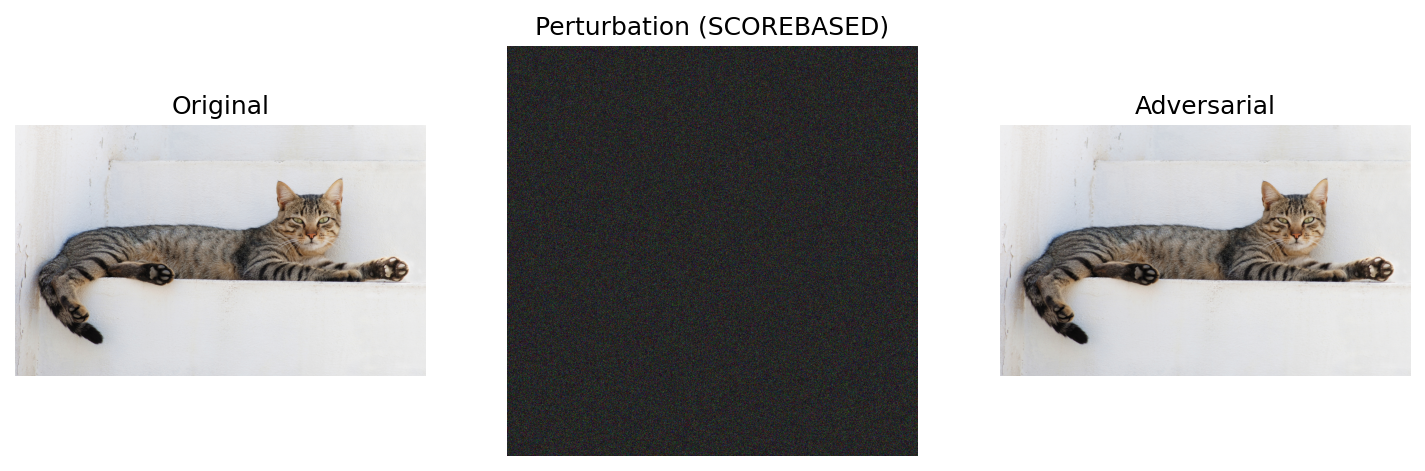
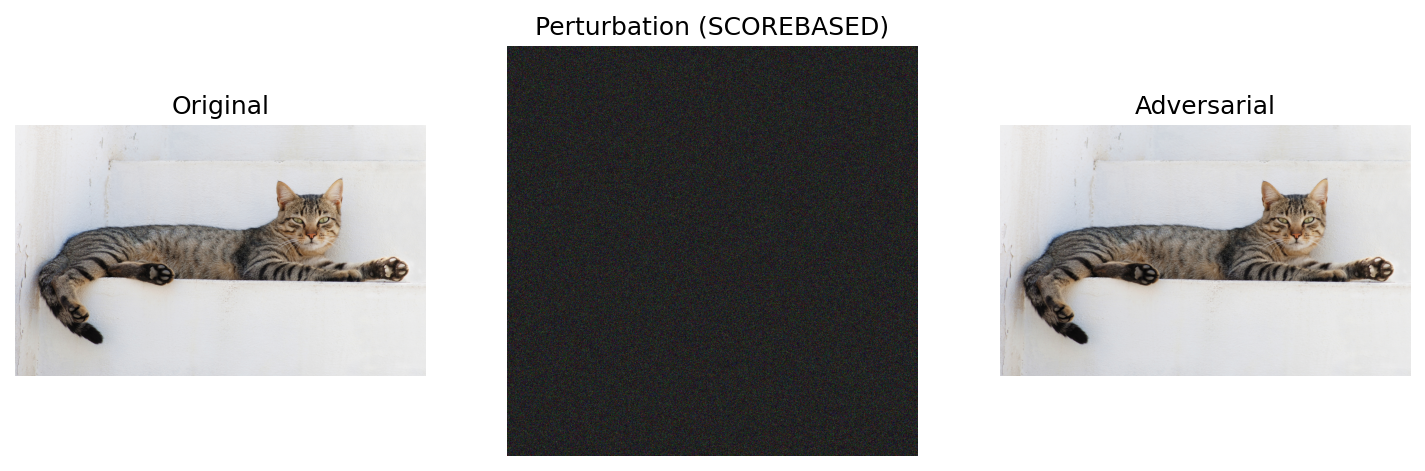
Trying to make the score based attack work better with a better loss function

Changed region(s): [[0.3705, 0.0892, 0.6484, 0.9512]]

diff --git a/Adversarial_attack_code/run_adversarial_attacks.py b/Adversarial_attack_code/run_adversarial_attacks.py
@@ -694,11 +694,18 @@ class AdversarialSticker(AdversarialAttacker):
 
 
 class ScoreBased(AdversarialAttacker):
-    """Score-Based Attack using Natural Evolution Strategies (NES) for gradient estimation
+    """Score-Based Attack using Central Difference (Antithetic Sampling) for gradient estimation
     
     This is a black-box attack that only requires access to model output scores (logits/probabilities),
-    not gradients. It estimates gradients by sampling random perturbations and using the model's
-    output scores to compute a weighted combination that approximates the true gradient direction.
+    not gradients. It estimates gradients using finite differences with antithetic samples:
+    
+    For each random direction u, we evaluate:
+    - L_plus = f(x + σu)
+    - L_minus = f(x - σu)  
+    - gradient ≈ (L_plus - L_minus) * u / (2σ)
+    
+    This central difference approach reduces variance and provides more accurate gradient estimates
+    compared to one-sided differences. Each iteration requires 2*num_samples model queries.
     """
     
     def __init__(self, model, processor, epsilon=0.1, iterations=50, num_samples=20, 
@@ -713,84 +720,99 @@ class ScoreBased(AdversarialAttacker):
         
     def estimate_gradient_nes(self, image_tensor, target_prompt):
         """
-        Estimate gradient using Natural Evolution Strategies (NES)
+        Estimate gradient using Central Difference (Antithetic Sampling)
         
-        NES samples random directions, evaluates the loss in those directions,
-        and computes a weighted average to approximate the gradient.
+        This method uses finite differences with antithetic samples for more accurate
+        gradient estimation. For each random direction u, we evaluate:
+        - L_plus = f(x + σu)  
+        - L_minus = f(x - σu)
+        - gradient ≈ (L_plus - L_minus) * u / (2σ)
+        
+        This antithetic approach reduces variance compared to one-sided differences.
+        
+        IMPORTANT: Uses MAX confidence (not mean) to match the actual decision boundary.
+        While noisier, this correctly targets what the detector actually uses.
         
         For UNTARGETED attacks: We want to DECREASE detection confidence.
-        So we define attack_success = -detection_confidence (higher = better attack)
+        So we define attack_success = -log(max_detection_confidence)
         
         Args:
             image_tensor: Current adversarial image tensor
             target_prompt: Text prompt for detection
             
         Returns:
-            gradient_estimate: Approximation of the gradient
+            gradient_estimate: Approximation of the gradient using central differences
         """
         # Sample random perturbation directions from Gaussian distribution
         # Shape: (num_samples, channels, height, width)
+        # Note: We'll use each sample for both +σu and -σu (antithetic pairs)
         perturbations = torch.randn(
             self.num_samples, *image_tensor.shape[1:], 
             device=self.device
         )
         
-        # Evaluate attack success for each perturbed sample
-        # Higher success = better attack = lower detection
-        attack_scores = []
+        gradient_estimate = torch.zeros_like(image_tensor)
         
+        # Evaluate attack success for each antithetic pair
         for i in range(self.num_samples):
-            # Apply perturbation
-            perturbed = image_tensor + self.sigma * perturbations[i:i+1]
-            perturbed = torch.clamp(perturbed, -1, 1)
+            u = perturbations[i:i+1]
             
-            # Compute attack success score (no gradients needed - score-based only)
+            # Evaluate at x + σu (forward perturbation)
+            perturbed_plus = image_tensor + self.sigma * u
+            perturbed_plus = torch.clamp(perturbed_plus, -1, 1)
+            
+            # Evaluate at x - σu (backward perturbation)
+            perturbed_minus = image_tensor - self.sigma * u
+            perturbed_minus = torch.clamp(perturbed_minus, -1, 1)
+            
+            # Compute attack success scores (no gradients needed - score-based only)
             with torch.no_grad():
                 if self.target_class:
                     # For targeted: minimize source, maximize target
-                    _, src_out, tgt_out = self.compute_targeted_loss(
-                        perturbed, target_prompt, self.target_class
+                    # Evaluate at x + σu
+                    _, src_out_plus, tgt_out_plus = self.compute_targeted_loss(
+                        perturbed_plus, target_prompt, self.target_class
                     )
-                    src_conf = src_out["pred_logits"].sigmoid().max().item()
-                    tgt_conf = tgt_out["pred_logits"].sigmoid().max().item()
-                    # Attack success using log-loss formulation (like cross-entropy)
-                    # Higher = better attack
-                    score = -torch.log(torch.tensor(src_conf + 1e-10)).item() + torch.log(torch.tensor(tgt_conf + 1e-10)).item()
+                    # Use MAX confidence to match the actual decision boundary
+                    src_conf_plus = src_out_plus["pred_logits"].sigmoid().max().item()
+                    tgt_conf_plus = tgt_out_plus["pred_logits"].sigmoid().max().item()
+                    score_plus = -torch.log(torch.tensor(src_conf_plus + 1e-10)).item() + \
+                                 torch.log(torch.tensor(tgt_conf_plus + 1e-10)).item()
+                    
+                    # Evaluate at x - σu
+                    _, src_out_minus, tgt_out_minus = self.compute_targeted_loss(
+                        perturbed_minus, target_prompt, self.target_class
+                    )
+                    src_conf_minus = src_out_minus["pred_logits"].sigmoid().max().item()
+                    tgt_conf_minus = tgt_out_minus["pred_logits"].sigmoid().max().item()
+                    score_minus = -torch.log(torch.tensor(src_conf_minus + 1e-10)).item() + \
+                                  torch.log(torch.tensor(tgt_conf_minus + 1e-10)).item()
                 else:
                     # For untargeted: minimize detection
-                    # Use negative log-probability (like cross-entropy loss)
-                    _, outputs = self.compute_loss(perturbed, target_prompt)
-                    detection_conf = outputs["pred_logits"].sigmoid().max().item()
-                    # Attack success = -log(detection_confidence)
-                    # When detection_conf is high (0.95), score is low (-0.05)
-                    # When detection_conf is low (0.1), score is high (-(-2.3) = 2.3)
-                    # Higher score = better attack
-                    score = -torch.log(torch.tensor(detection_conf + 1e-10)).item()
-                
-                attack_scores.append(score)
+                    # Use MAX confidence to match the actual decision boundary
+                    # This is noisier but matches what we're actually trying to fool
+                    _, outputs_plus = self.compute_loss(perturbed_plus, target_prompt)
+                    detection_conf_plus = outputs_plus["pred_logits"].sigmoid().max().item()
+                    score_plus = -torch.log(torch.tensor(detection_conf_plus + 1e-10)).item()
+                    
+                    # Evaluate at x - σu
+                    _, outputs_minus = self.compute_loss(perturbed_minus, target_prompt)
+                    detection_conf_minus = outputs_minus["pred_logits"].sigmoid().max().item()
+                    score_minus = -torch.log(torch.tensor(detection_conf_minus + 1e-10)).item()
+            
+            # Central difference: gradient ≈ (L_plus - L_minus) * u / (2σ)
+            # Higher score = better attack, so we want to move in direction of score increase
+            score_difference = score_plus - score_minus
+            gradient_estimate += score_difference * u
         
-        # Convert to tensor
-        scores_tensor = torch.tensor(attack_scores, device=self.device)
+        # Average over all samples and scale by 1/(2σ) for central difference
+        gradient_estimate = gradient_estimate / (self.num_samples * 2 * self.sigma)
         
-        # Debug: print score statistics
+        # Debug: print gradient statistics
         if torch.rand(1).item() < 0.1:  # Print 10% of the time to avoid spam
-            print(f"      [NES Debug] Score range: [{scores_tensor.min().item():.4f}, {scores_tensor.max().item():.4f}], "
-                  f"mean: {scores_tensor.mean().item():.4f}, std: {scores_tensor.std().item():.6f}")
-        
-        # Standard NES with baseline subtraction
-        # Directions with higher-than-average attack success get positive weight
-        scores_mean = scores_tensor.mean()
-        scores_centered = scores_tensor - scores_mean
-        
-        # Estimate gradient: directions with better attack scores (higher) contribute positively
-        # Formula: ĝ ≈ (1/Nσ) Σ (score_k - score_mean) * u_k
-        gradient_estimate = torch.zeros_like(image_tensor)
-        
-        for i in range(self.num_samples):
-            gradient_estimate += scores_centered[i] * perturbations[i:i+1]
-        
-        # Scale by (1 / (N * sigma)) as per NES formula
-        gradient_estimate = gradient_estimate / (self.num_samples * self.sigma)
+            grad_norm = torch.norm(gradient_estimate).item()
+            grad_max = torch.abs(gradient_estimate).max().item()
+            print(f"      [Central Diff Debug] GradNorm: {grad_norm:.6f}, GradMax: {grad_max:.6f}")
         
         return gradient_estimate
     
@@ -814,10 +836,10 @@ class ScoreBased(AdversarialAttacker):
         if self.target_class:
             print(f"  Running TARGETED Score-Based attack with {self.iterations} iterations...")
             print(f"  Source class: '{target_prompt}' -> Target class: '{self.target_class}'")
-            print(f"  Using {self.num_samples} samples per gradient estimation")
+            print(f"  Using {self.num_samples} antithetic samples per gradient estimation (central differences)")
         else:
             print(f"  Running Score-Based attack with {self.iterations} iterations...")
-            print(f"  Using {self.num_samples} samples per gradient estimation")
+            print(f"  Using {self.num_samples} antithetic samples per gradient estimation (central differences)")
         
         best_perturbation = None
         best_score = float('-inf')  # Track HIGHEST attack success score
@@ -826,9 +848,9 @@ class ScoreBased(AdversarialAttacker):
         total_queries = 0
         
         for i in range(self.iterations):
-            # Estimate gradient using NES (requires num_samples queries)
+            # Estimate gradient using central differences (requires 2*num_samples queries)
             gradient_estimate = self.estimate_gradient_nes(perturbed_tensor, target_prompt)
-            total_queries += self.num_samples
+            total_queries += 2 * self.num_samples  # Both +σu and -σu for each sample
             
             # Debug: check gradient magnitude
             grad_norm = torch.norm(gradient_estimate).item()
@@ -859,11 +881,13 @@ class ScoreBased(AdversarialAttacker):
                     _, src_out, tgt_out = self.compute_targeted_loss(
                         perturbed_tensor, target_prompt, self.target_class
                     )
+                    # Use max to match decision boundary
                     src_conf = src_out["pred_logits"].sigmoid().max().item()
                     tgt_conf = tgt_out["pred_logits"].sigmoid().max().item()
                     current_score = -torch.log(torch.tensor(src_conf + 1e-10)).item() + torch.log(torch.tensor(tgt_conf + 1e-10)).item()
                 else:
                     _, outputs = self.compute_loss(perturbed_tensor, target_prompt)
+                    # Use max confidence to match the actual decision boundary
                     detection_conf = outputs["pred_logits"].sigmoid().max().item()
                     current_score = -torch.log(torch.tensor(detection_conf + 1e-10)).item()
                 
@@ -1268,14 +1292,18 @@ def test_adversarial_attack(attack_method, image_path, animal_name, output_dir, 
                                      c=10.0, iterations=200, learning_rate=0.1, 
                                      target_class=target_class)
     elif attack_method.lower() == 'scorebased':
-        # Score-based attack using Natural Evolution Strategies (NES)
+        # Score-based attack using Central Differences (Antithetic Sampling)
         # Query-efficient black-box attack that only needs model output scores
-        num_samples = 100  # Increased for more accurate gradient estimates
-        sigma = 0.2  # Larger sampling radius for stronger signal (was 0.1)
-        lr_scorebased = 0.05  # Larger step size for more aggressive updates (was 0.01)
-        print(f"  Score-based attack parameters: samples={num_samples}, sigma={sigma}, lr={lr_scorebased}")
-        print(f"  Note: Score-based attacks are query-intensive. Using {num_samples} samples per iteration.")
-        attacker = ScoreBased(model, processor, epsilon=epsilon, iterations=iterations,
+        num_samples = 100  # Good for accurate gradient estimates
+        sigma = 0.01  # REDUCED: Smaller perturbations for better gradient approximation
+        lr_scorebased = 0.05  # Step size for updates
+        # Increase iterations for better convergence
+        iterations_scorebased = max(50, iterations * 5)  # At least 50 iterations
+        print(f"  Score-based attack parameters: samples={num_samples}, sigma={sigma}, lr={lr_scorebased}, iterations={iterations_scorebased}")
+        print(f"  Note: Score-based attacks are query-intensive. Using {num_samples} antithetic pairs per iteration.")
+        print(f"        Central differences: gradient ≈ (f(x+σu) - f(x-σu)) * u / (2σ)")
+        print(f"        Using MAX confidence (matches decision boundary, though noisier)")
+        attacker = ScoreBased(model, processor, epsilon=epsilon, iterations=iterations_scorebased,
                              num_samples=num_samples, sigma=sigma, learning_rate=lr_scorebased,
                              target_class=target_class)
     elif attack_method.lower() == 'decision':
@@ -1470,7 +1498,7 @@ def main():
                        choices=['center', 'random', 'top-left', 'top-right', 'bottom-left', 'bottom-right'],
                        help='Location to place adversarial sticker (sticker attack only)')
     parser.add_argument('--max-size', type=int, default=None,
-                       help='Maximum image dimension (if set, images larger than this will be downsampled to prevent OOM errors)')
+                       help='Maximum image dimension (if set, images larger than this will be downsampled to prevent OOM errors). Recommended: 1024 for score-based attacks on large images.')
     
     args = parser.parse_args()
     
